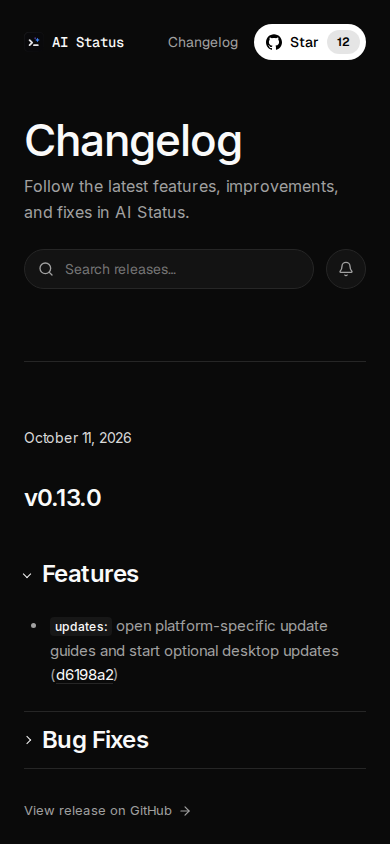
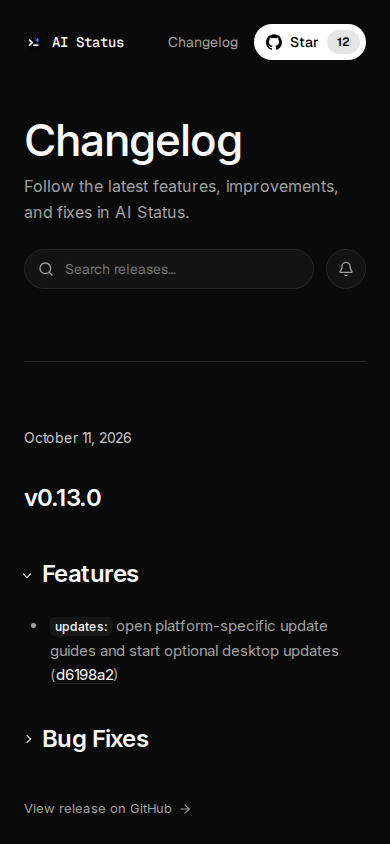
chore(web): remove changelog section separators

diff --git a/apps/web/src/app/changelog/changelog.css b/apps/web/src/app/changelog/changelog.css
@@ -82,7 +82,7 @@
 @media (max-width: 380px) {
 	.changelog-page-header h1 { font-size: 38px; letter-spacing: -.8px; }
 }
-.changelog-prose .changelog-section { border-bottom: 1px solid var(--border); margin-top: 32px; }
+.changelog-prose .changelog-section { margin-top: 32px; }
 .changelog-prose .changelog-section + .changelog-section { margin-top: 0; }
 .changelog-section summary { min-height: 56px; display: flex; align-items: center; gap: 8px; cursor: pointer; list-style: none; color: var(--foreground); }
 .changelog-section summary::-webkit-details-marker { display: none; }
